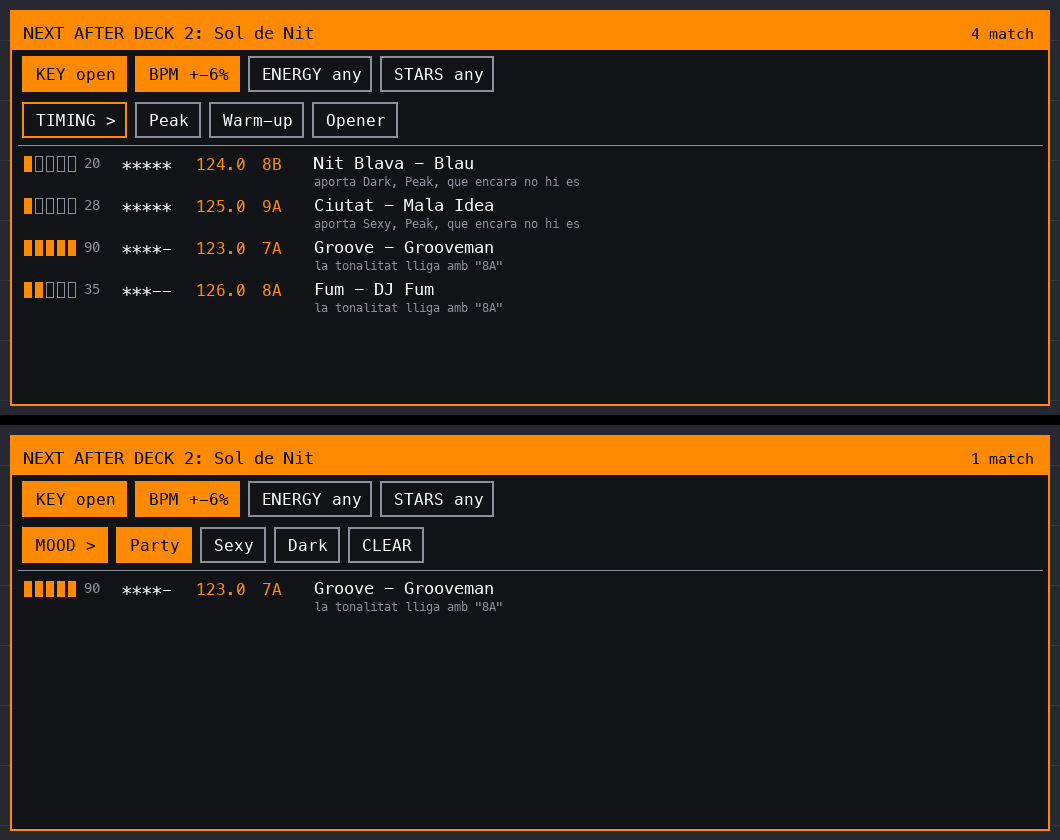
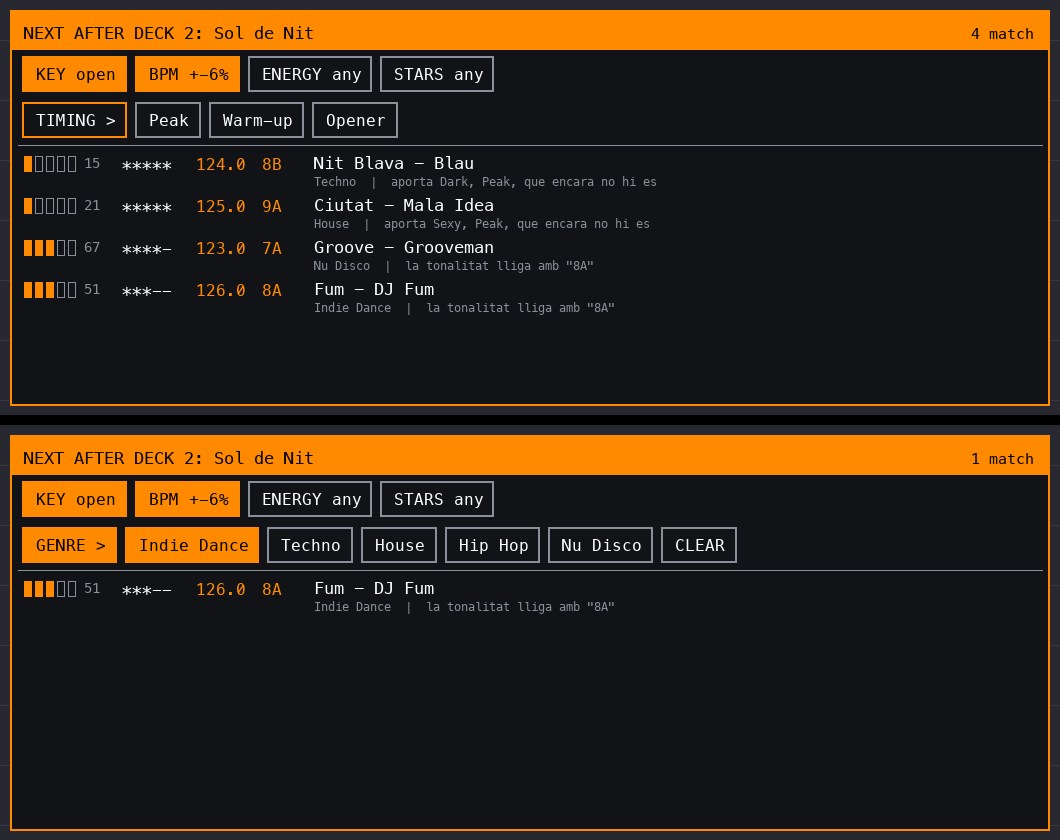
Deck Suggestions: the genre on every row, and a GENRE filter group

diff --git a/deck-suggest/deck-suggest.c b/deck-suggest/deck-suggest.c
@@ -46,7 +46,7 @@
 #define HEAD_H 40
 #define FILT_H 46
 #define PANEL_H (HEAD_H + 2 * FILT_H + ROWS * ROW_H + 12)
-#define GROUPS 4
+#define GROUPS 5
 #define GTAGS 10
 #define TAB_W 150
 #define TAB_H 44
@@ -57,7 +57,7 @@ static const az_core_v1 *C;
 
 typedef struct {
     int fit, stars;            /* fit 0..100 (as in Sets), stars 0..5 (your rekordbox rating) */
-    char bpm[8], key[6], title[64], artist[44], why[68];
+    char bpm[8], key[6], title[64], artist[44], genre[32], why[68];
 } row_t;
 
 static pthread_mutex_t mu = PTHREAD_MUTEX_INITIALIZER;
@@ -312,16 +312,16 @@ static void take_answer(int deck, char *body)
         } else if (!strncmp(line, "msg ", 4)) {
             snprintf(msg, sizeof msg, "%s", line + 4);
         } else if (!strncmp(line, "s\t", 2) && n < ROWS) {
-            /* s  fit  stars  bpm  key  title  artist  why */
-            char *f[7] = { 0 };
+            /* s  fit  stars  bpm  key  title  artist  genre  why */
+            char *f[8] = { 0 };
             char *p = line + 2;
-            for (int i = 0; i < 7 && p; i++) {
+            for (int i = 0; i < 8 && p; i++) {
                 f[i] = p;
                 p = strchr(p, '\t');
                 if (p)
                     *p++ = 0;
             }
-            if (!f[6])
+            if (!f[7])
                 continue;
             row_t *r = &got[n++];
             r->fit = atoi(f[0]);
@@ -330,7 +330,8 @@ static void take_answer(int deck, char *body)
             snprintf(r->key, sizeof r->key, "%s", f[3]);
             snprintf(r->title, sizeof r->title, "%s", f[4]);
             snprintf(r->artist, sizeof r->artist, "%s", f[5]);
-            snprintf(r->why, sizeof r->why, "%s", f[6]);
+            snprintf(r->genre, sizeof r->genre, "%s", f[6]);
+            snprintf(r->why, sizeof r->why, "%s", f[7]);
         }
     }
     pthread_mutex_lock(&mu);
@@ -705,7 +706,8 @@ static void paint(az_draw *d, az_rect a, void *user)
         text_in(d, a, a.x + 252, y + 4, r[i].key, 16, hi);
         snprintf(s, sizeof s, "%s - %s", r[i].title, r[i].artist);
         text_in(d, a, a.x + 304, y + 2, s, 17, text);
-        text_in(d, a, a.x + 304, y + 24, r[i].why, 12, dim);
+        snprintf(s, sizeof s, "%s  |  %s", r[i].genre, r[i].why);
+        text_in(d, a, a.x + 304, y + 24, s, 12, dim);
     }
 }
 

diff --git a/README.md b/README.md
@@ -40,6 +40,7 @@ Al **Mod Menu** surt la fila *Mala Idea Wallpaper*: activar-lo o no, **Show afte
 Quan un deck carrega un tema (d'un USB o de rekordbox per **Pro DJ Link**), el mod pregunta a
 Backspins, a l'ordinador, què hi lliga i mostra un panell amb els 6 millors. Cada fila porta
 el **fit** (la barra de cinc i el número, el mateix que a Sets), les teves **estrelles**, BPM,
+tonalitat, títol, artista, **gènere** i el perquè. L'ordre és
 tonalitat, títol, artista i el perquè. L'ordre és el del model que Backspins aprèn dels teus
 sets (què poses després de què).
 
@@ -49,7 +50,7 @@ Els **filtres** es toquen al panell i la llista es torna a demanar a l'instant:
 
 - **KEY** strict / open / any · **BPM** ±3 / ±6 / ±10 % / any · **ENERGY** any / up / = / down
   (l'energia del comentari) · **STARS** any / 3+ / 4+ / 5.
-- **Els teus MyTags**: el botó del grup (TIMING, MOOD, TYPE, FAMILY) canvia de grup i les
+- **Els teus MyTags i el gènere**: el botó del grup (TIMING, MOOD, TYPE, FAMILY, GENRE) canvia de grup i les
   etiquetes del costat filtren (una per grup, es poden combinar grups). **CLEAR** les treu.
 - A dalt a la dreta, quants temes passen els filtres.
 
